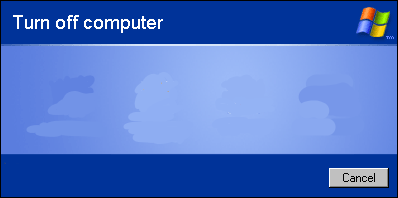
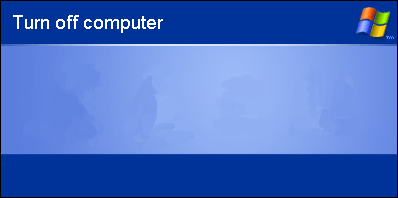
added buttons and background

Changed region(s): [[0.8141, 0.8485, 0.995, 0.9697]]

diff --git a/src/main/java/gui/MainFrame.java b/src/main/java/gui/MainFrame.java
@@ -4,33 +4,42 @@ import net.miginfocom.swing.MigLayout;
 
 import javax.swing.*;
 import java.awt.*;
+@SuppressWarnings("FieldCanBeLocal")
 
 public class MainFrame extends JFrame {
+
+    private final JButton b1shut,b2shut,b3abort;
+    private final JLabel background,timeLabel;
+    private final JTextField seconds;
+
     public MainFrame(){
         this.setResizable(true);
-        this.setVisible(true);
-        this.setSize(400,200);
-        this.setLayout(new MigLayout(
-                "","[]20[]20","[]50"
-        ));
+        this.setSize(398,238);
+        this.setLayout(new BorderLayout());
         this.setDefaultCloseOperation(EXIT_ON_CLOSE);
-        JLabel background = new JLabel(new ImageIcon(".\\src\\main\\java\\files\\Windows_XP_Shutdown.png"));
-        JLabel shutdown1hLabel = new JLabel("Shutdown in 1 hour");
-        JLabel shutdown2hLabel = new JLabel("Shutdown in 2 hour");
-        JLabel abortLabel = new JLabel("ABORT!!");
-        JButton shutdown1hButton = new JButton("Execute");
-        JButton shutdown2hButton = new JButton("Execute");
-        JButton abortButton = new JButton("ABORT!!");
-        //region adding to frame
-        this.add(shutdown1hLabel,"span 2");
-        this.add(shutdown2hLabel,"span 2");
-        this.add(abortLabel,"span 2 , wrap");
-        this.add(shutdown1hButton,"span 2");
-        this.add(shutdown2hButton,"span 2");
-        this.add(abortButton);
-        this.add(background);
-        background.setLayout(new FlowLayout());
-        //endregion
-    }
+        this.setVisible(true);
+        background = new JLabel(new ImageIcon(".\\src\\main\\java\\files\\Windows_XP_Shutdown.png"));
+        background.setLayout(new MigLayout(
+                "",
+                "40[]40[]40[]",
+                "80[]20[]"
+        ));
+        b1shut = new JButton("in 1 hour");
+        b2shut = new JButton("in 2 hour");
+        b3abort = new JButton("ABORT!!");
+        timeLabel = new JLabel("Enter seconds till shutoff");
+        seconds = new JTextField(10);
 
+        //region add to frame
+        this.add(background);
+        background.add(b1shut);
+        background.add(b2shut);
+        background.add(b3abort,"wrap");
+        background.add(timeLabel,"split 2, span 3");
+        background.add(seconds);
+        //endregion
+
+
+
+    }
 }

diff --git a/src/main/java/App.java b/src/main/java/App.java
@@ -5,7 +5,6 @@ import java.io.IOException;
 
 public class App {
     public static void main(String[] args) {
-
         MainFrame frame = new MainFrame();
 //        try{
 //            Process process = Runtime.getRuntime().exec("cmd /c start cmd.exe /K" +"shutdown /s /t 7200");
